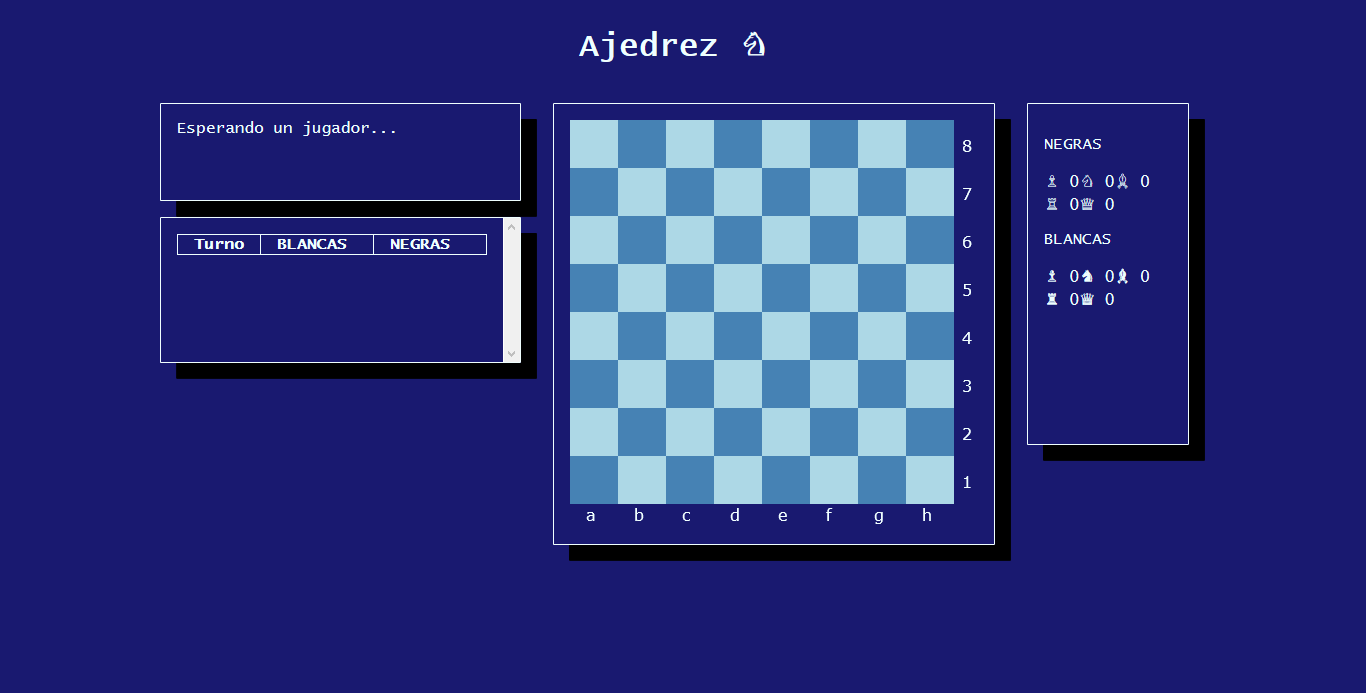
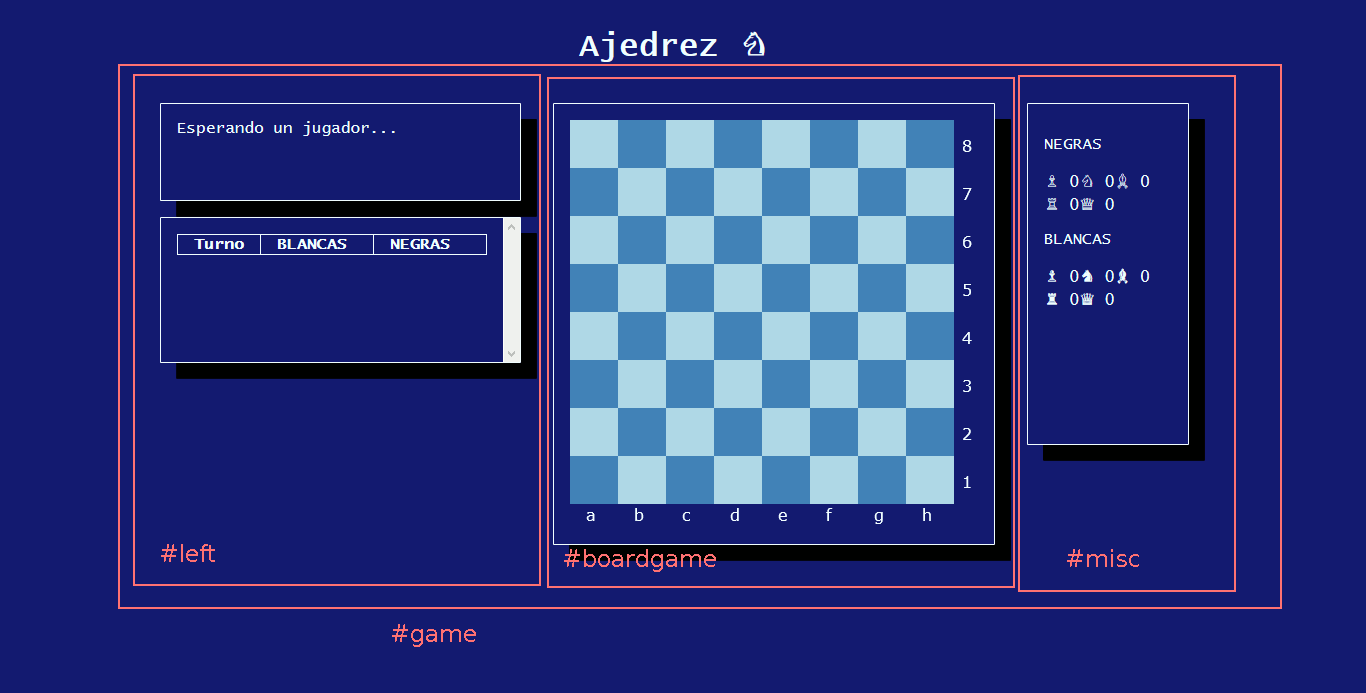
Documentar el uso de flex

diff --git a/documentacion/ajedrez-online.md b/documentacion/ajedrez-online.md
@@ -822,7 +822,16 @@ El servidor usa una interfaz para linea de comandos. Se configura con parámetro
 
 El cliente al ser un navegador web usa una hoja de estilos proporcionado desde el servidor. El tablero de ajedrez se dibuja usando la etiqueta **canvas** y JavaScript. En el proyecto el tablero está encapsulado en una clase *BoardViewer* que maneja un elemento **canvas**.![1528821290362](1528821290362.png)
 
-## Problemática
+Se usa *flex* para centrar los elementos por la pantalla.
+
+```css
+#game {
+    display: flex;
+    align-items: start;
+    align-content: center;
+    flex-direction: row;
+}
+```
 
 ## Conclusiones
 
